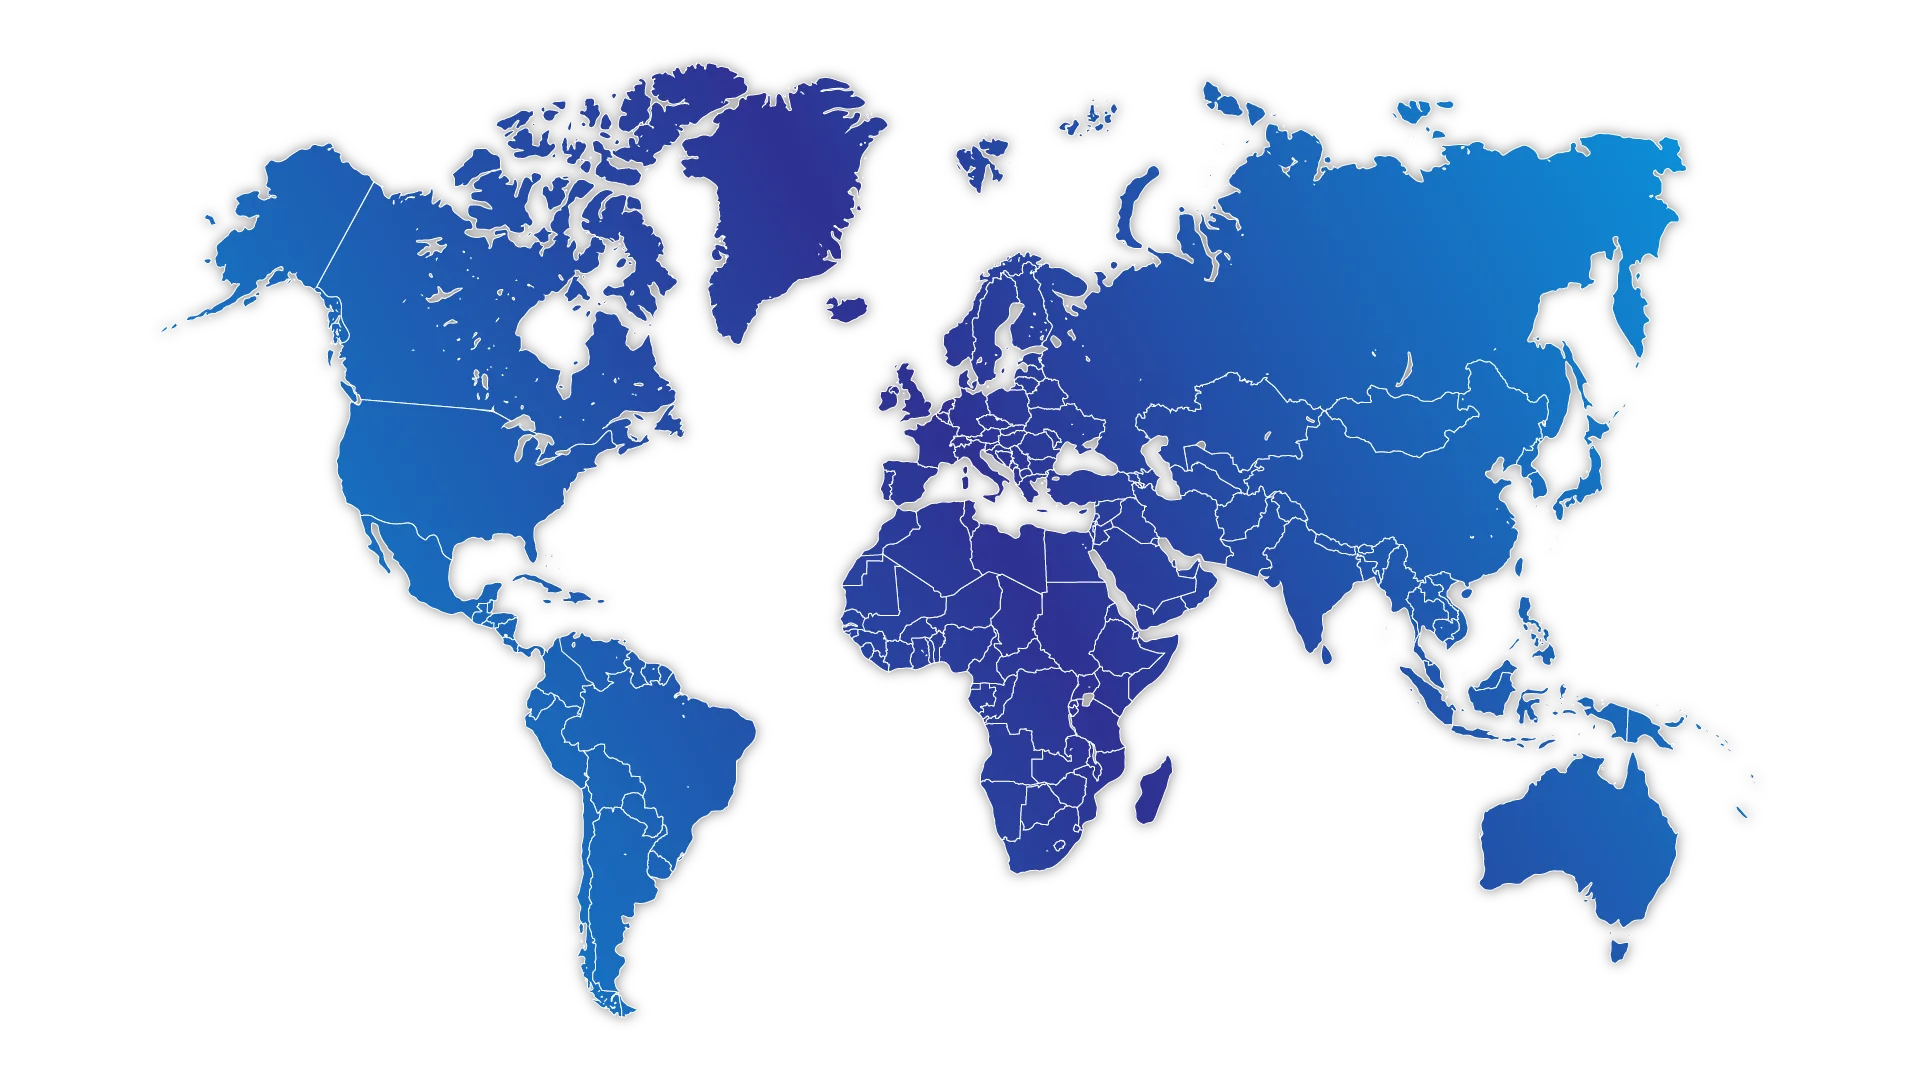
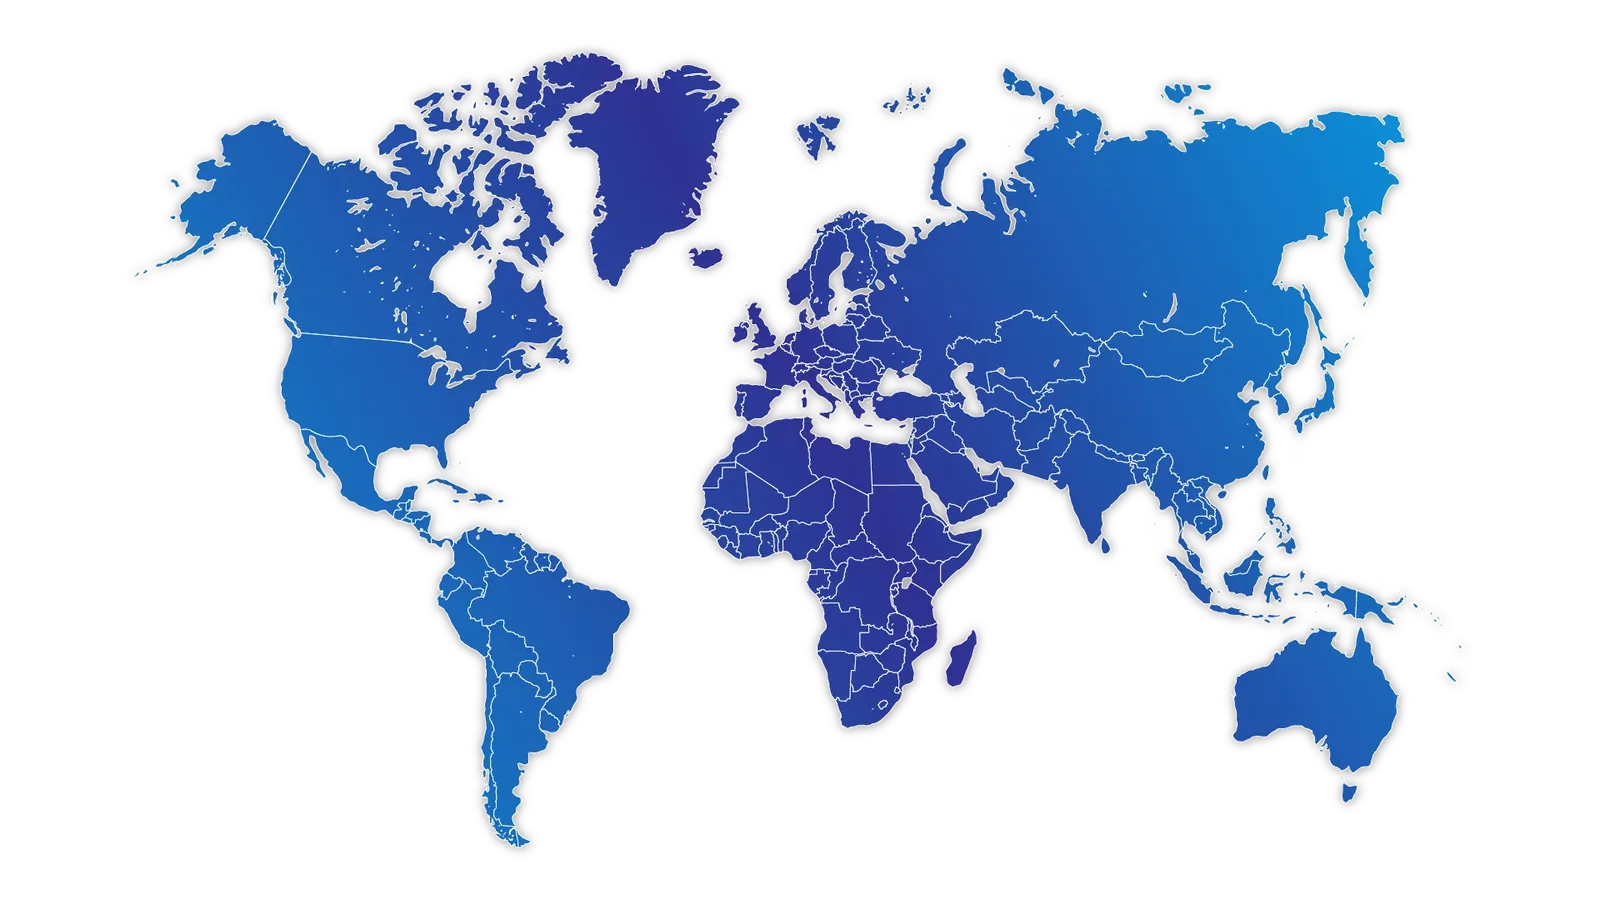
Imagenes al tamano al que se ven de verdad
Las fotos de proyecto se servian a 2209 px de ancho para mostrarse en tarjetas
de unos 400 px. Redimensionadas a 1000 px, que sigue siendo el doble de lo que
hace falta en pantallas de alta densidad.

  Thaleias   2209x1234 -> 1000x559   568 -> 140 KB
  Dallas     1912x1007 -> 1000x527   221 ->  82 KB
  mapa       1920x1080 -> 1600x900   252 -> 234 KB

Los atributos width y height se han actualizado en las seis paginas afectadas:
si no, el navegador reservaria un hueco con la proporcion equivocada y volveria
el salto de maqueta que acabamos de quitar.

assets/img queda en 1,1 MB. Empezamos en 15.

diff --git a/index.html b/index.html
@@ -333,7 +333,7 @@
         </div>
         <div class="partido__visual revelar">
           <div class="visual-fases">
-            <img width="1994" height="1761" src="assets/img/03_AsBuilt_Smart-01.webp" alt="Modelo BIM inteligente de un edificio con sus datos asociados" loading="lazy">
+            <img width="1600" height="1413" src="assets/img/03_AsBuilt_Smart-01.webp" alt="Modelo BIM inteligente de un edificio con sus datos asociados" loading="lazy">
             <span class="chip-dato" style="top:4%;left:-4%;"><span class="punto"></span>Modelo BIM · LOD 350</span>
             <span class="chip-dato" style="top:44%;right:-6%;animation-delay:-2.2s;"><span class="punto"></span>0 interferencias detectadas</span>
             <span class="chip-dato" style="bottom:6%;left:4%;animation-delay:-4.4s;"><span class="punto"></span>105+ proyectos en 16 países</span>
@@ -366,7 +366,7 @@
             <h3>Cada muro, cada conducto, cada viga: con sus datos</h3>
             <p>Convertimos la captura en modelos BIM inteligentes. Geometría con información viva, lista para construir.</p>
           </div>
-          <div class="capitulo__visual"><img width="1920" height="1080" src="assets/img/Mauritius_01.webp" alt="Modelo BIM isométrico de un edificio" loading="lazy" style="border-radius:8px;"></div>
+          <div class="capitulo__visual"><img width="1000" height="562" src="assets/img/Mauritius_01.webp" alt="Modelo BIM isométrico de un edificio" loading="lazy" style="border-radius:8px;"></div>
         </article>
         <article class="capitulo">
           <div>
@@ -374,7 +374,7 @@
             <h3>Los errores se corrigen en pantalla, no en el edificio</h3>
             <p>Coordinación, clash detection y control 4D/5D: tiempos y costes ligados al modelo, también en obra.</p>
           </div>
-          <div class="capitulo__visual"><img width="1912" height="1007" src="assets/img/Dallas_02.webp" alt="Render de un edificio residencial en construcción" loading="lazy" style="border-radius:8px;"></div>
+          <div class="capitulo__visual"><img width="1000" height="527" src="assets/img/Dallas_02.webp" alt="Render de un edificio residencial en construcción" loading="lazy" style="border-radius:8px;"></div>
         </article>
         <article class="capitulo">
           <div>
@@ -425,7 +425,7 @@
         <p class="subtitulo-seccion">Trabajamos en remoto y de forma híbrida con estudios, promotoras y constructoras de todo el mundo. Pulsa en cada punto para ver los proyectos.</p>
       </div>
       <div class="mapa-lienzo revelar" id="mapa-lienzo">
-        <img width="1920" height="1080" src="assets/img/mapa-01.webp" alt="Mapa mundial con los países donde Infinity Dimensions ha desarrollado proyectos" loading="lazy">
+        <img width="1600" height="900" src="assets/img/mapa-01.webp" alt="Mapa mundial con los países donde Infinity Dimensions ha desarrollado proyectos" loading="lazy">
         <div class="mapa-popover" id="mapa-popover" role="status" aria-live="polite">
           <h3 id="mapa-titulo"></h3>
           <p class="mapa-popover__num" id="mapa-num"></p>
@@ -447,7 +447,7 @@
       </div>
       <div class="rejilla rejilla--4">
         <div class="proyecto revelar">
-          <img width="2209" height="1234" src="assets/img/Thaleias_01.webp" alt="Render del edificio residencial en Atenas, Grecia" loading="lazy">
+          <img width="1000" height="559" src="assets/img/Thaleias_01.webp" alt="Render del edificio residencial en Atenas, Grecia" loading="lazy">
           <span class="proyecto__etiqueta">Residencial</span>
           <div class="proyecto__info">
             <h3>Residencial Atenas</h3>
@@ -455,7 +455,7 @@
           </div>
         </div>
         <div class="proyecto revelar">
-          <img width="1912" height="1007" src="assets/img/Dallas_02.webp" alt="Render del edificio residencial en Dallas, Estados Unidos" loading="lazy">
+          <img width="1000" height="527" src="assets/img/Dallas_02.webp" alt="Render del edificio residencial en Dallas, Estados Unidos" loading="lazy">
           <span class="proyecto__etiqueta">Residencial</span>
           <div class="proyecto__info">
             <h3>Residencial Dallas</h3>
@@ -463,7 +463,7 @@
           </div>
         </div>
         <div class="proyecto revelar">
-          <img width="1920" height="1080" src="assets/img/Mauritius_01.webp" alt="Render del edificio de oficinas en Ebene, Islas Mauricio" loading="lazy">
+          <img width="1000" height="562" src="assets/img/Mauritius_01.webp" alt="Render del edificio de oficinas en Ebene, Islas Mauricio" loading="lazy">
           <span class="proyecto__etiqueta">Oficinas</span>
           <div class="proyecto__info">
             <h3>Oficinas Ebene</h3>
@@ -471,7 +471,7 @@
           </div>
         </div>
         <div class="proyecto revelar">
-          <img width="1920" height="1080" src="assets/img/Enscape_2023-03-14-23-00-02.webp" alt="Render del edificio residencial en Madrid, España" loading="lazy">
+          <img width="1000" height="562" src="assets/img/Enscape_2023-03-14-23-00-02.webp" alt="Render del edificio residencial en Madrid, España" loading="lazy">
           <span class="proyecto__etiqueta">Residencial</span>
           <div class="proyecto__info">
             <h3>Residencial Madrid</h3>

diff --git a/en/index.html b/en/index.html
@@ -182,7 +182,7 @@
         </div>
         <div class="partido__visual revelar">
           <div class="visual-fases">
-            <img width="1994" height="1761" src="../assets/img/03_AsBuilt_Smart-01.webp" alt="Smart BIM model of a building with its associated data" loading="lazy">
+            <img width="1600" height="1413" src="../assets/img/03_AsBuilt_Smart-01.webp" alt="Smart BIM model of a building with its associated data" loading="lazy">
             <span class="chip-dato" style="top:4%;left:-4%;"><span class="punto"></span>BIM model · LOD 350</span>
             <span class="chip-dato" style="top:44%;right:-6%;animation-delay:-2.2s;"><span class="punto"></span>0 clashes detected</span>
             <span class="chip-dato" style="bottom:6%;left:4%;animation-delay:-4.4s;"><span class="punto"></span>105+ projects in 16 countries</span>
@@ -215,7 +215,7 @@
             <h3>Every wall, every duct, every beam: with its data</h3>
             <p>We turn the capture into intelligent BIM models. Geometry with living information, ready to build.</p>
           </div>
-          <div class="capitulo__visual"><img width="1920" height="1080" src="../assets/img/Mauritius_01.webp" alt="Isometric BIM model of a building" loading="lazy" style="border-radius:8px;"></div>
+          <div class="capitulo__visual"><img width="1000" height="562" src="../assets/img/Mauritius_01.webp" alt="Isometric BIM model of a building" loading="lazy" style="border-radius:8px;"></div>
         </article>
         <article class="capitulo">
           <div>
@@ -223,7 +223,7 @@
             <h3>Errors get fixed on screen, not in the building</h3>
             <p>Coordination, clash detection and 4D/5D control: time and cost tied to the model, on site too.</p>
           </div>
-          <div class="capitulo__visual"><img width="1912" height="1007" src="../assets/img/Dallas_02.webp" alt="Render of a residential building under construction" loading="lazy" style="border-radius:8px;"></div>
+          <div class="capitulo__visual"><img width="1000" height="527" src="../assets/img/Dallas_02.webp" alt="Render of a residential building under construction" loading="lazy" style="border-radius:8px;"></div>
         </article>
         <article class="capitulo">
           <div>
@@ -274,7 +274,7 @@
         <p class="subtitulo-seccion">We work remotely and in hybrid mode with studios, developers and construction companies worldwide. Click each point to see the projects.</p>
       </div>
       <div class="mapa-lienzo revelar" id="mapa-lienzo">
-        <img width="1920" height="1080" src="../assets/img/mapa-01.webp" alt="World map with the countries where Infinity Dimensions has developed projects" loading="lazy">
+        <img width="1600" height="900" src="../assets/img/mapa-01.webp" alt="World map with the countries where Infinity Dimensions has developed projects" loading="lazy">
         <div class="mapa-popover" id="mapa-popover" role="status" aria-live="polite">
           <h3 id="mapa-titulo"></h3>
           <p class="mapa-popover__num" id="mapa-num"></p>
@@ -296,7 +296,7 @@
       </div>
       <div class="rejilla rejilla--4">
         <div class="proyecto revelar">
-          <img width="2209" height="1234" src="../assets/img/Thaleias_01.webp" alt="Render of the residential building in Athens, Greece" loading="lazy">
+          <img width="1000" height="559" src="../assets/img/Thaleias_01.webp" alt="Render of the residential building in Athens, Greece" loading="lazy">
           <span class="proyecto__etiqueta">Residential</span>
           <div class="proyecto__info">
             <h3>Athens Residential</h3>
@@ -304,7 +304,7 @@
           </div>
         </div>
         <div class="proyecto revelar">
-          <img width="1912" height="1007" src="../assets/img/Dallas_02.webp" alt="Render of the residential building in Dallas, United States" loading="lazy">
+          <img width="1000" height="527" src="../assets/img/Dallas_02.webp" alt="Render of the residential building in Dallas, United States" loading="lazy">
           <span class="proyecto__etiqueta">Residential</span>
           <div class="proyecto__info">
             <h3>Dallas Residential</h3>
@@ -312,7 +312,7 @@
           </div>
         </div>
         <div class="proyecto revelar">
-          <img width="1920" height="1080" src="../assets/img/Mauritius_01.webp" alt="Render of the office building in Ebene, Mauritius" loading="lazy">
+          <img width="1000" height="562" src="../assets/img/Mauritius_01.webp" alt="Render of the office building in Ebene, Mauritius" loading="lazy">
           <span class="proyecto__etiqueta">Offices</span>
           <div class="proyecto__info">
             <h3>Ebene Offices</h3>
@@ -320,7 +320,7 @@
           </div>
         </div>
         <div class="proyecto revelar">
-          <img width="1920" height="1080" src="../assets/img/Enscape_2023-03-14-23-00-02.webp" alt="Render of the residential building in Madrid, Spain" loading="lazy">
+          <img width="1000" height="562" src="../assets/img/Enscape_2023-03-14-23-00-02.webp" alt="Render of the residential building in Madrid, Spain" loading="lazy">
           <span class="proyecto__etiqueta">Residential</span>
           <div class="proyecto__info">
             <h3>Madrid Residential</h3>

diff --git a/en/projects.html b/en/projects.html
@@ -117,7 +117,7 @@
       </div>
       <div class="rejilla rejilla--2">
         <div class="proyecto revelar" data-categoria="residencial">
-          <img width="2209" height="1234" src="../assets/img/Thaleias_01.webp" alt="Render of the residential building in Athens, Greece" loading="lazy">
+          <img width="1000" height="559" src="../assets/img/Thaleias_01.webp" alt="Render of the residential building in Athens, Greece" loading="lazy">
           <span class="proyecto__etiqueta">Residential</span>
           <div class="proyecto__info">
             <h3>Athens Residential</h3>
@@ -125,7 +125,7 @@
           </div>
         </div>
         <div class="proyecto revelar" data-categoria="residencial">
-          <img width="1912" height="1007" src="../assets/img/Dallas_02.webp" alt="Render of the residential building in Dallas, United States" loading="lazy">
+          <img width="1000" height="527" src="../assets/img/Dallas_02.webp" alt="Render of the residential building in Dallas, United States" loading="lazy">
           <span class="proyecto__etiqueta">Residential</span>
           <div class="proyecto__info">
             <h3>Dallas Residential Building</h3>
@@ -133,7 +133,7 @@
           </div>
         </div>
         <div class="proyecto revelar" data-categoria="oficinas">
-          <img width="1920" height="1080" src="../assets/img/Mauritius_01.webp" alt="Render of the office building in Ebene, Mauritius" loading="lazy">
+          <img width="1000" height="562" src="../assets/img/Mauritius_01.webp" alt="Render of the office building in Ebene, Mauritius" loading="lazy">
           <span class="proyecto__etiqueta">Offices</span>
           <div class="proyecto__info">
             <h3>Ebene Office Building</h3>
@@ -141,7 +141,7 @@
           </div>
         </div>
         <div class="proyecto revelar" data-categoria="residencial">
-          <img width="1920" height="1080" src="../assets/img/Enscape_2023-03-14-23-00-02.webp" alt="Render of the residential building in Madrid, Spain" loading="lazy">
+          <img width="1000" height="562" src="../assets/img/Enscape_2023-03-14-23-00-02.webp" alt="Render of the residential building in Madrid, Spain" loading="lazy">
           <span class="proyecto__etiqueta">Residential</span>
           <div class="proyecto__info">
             <h3>Madrid Residential Building</h3>

diff --git a/proyectos.html b/proyectos.html
@@ -137,7 +137,7 @@
       </div>
       <div class="rejilla rejilla--2">
         <div class="proyecto revelar" data-categoria="residencial">
-          <img width="2209" height="1234" src="assets/img/Thaleias_01.webp" alt="Render del edificio residencial en Atenas, Grecia" loading="lazy">
+          <img width="1000" height="559" src="assets/img/Thaleias_01.webp" alt="Render del edificio residencial en Atenas, Grecia" loading="lazy">
           <span class="proyecto__etiqueta">Residencial</span>
           <div class="proyecto__info">
             <h3>Residencial Atenas</h3>
@@ -145,7 +145,7 @@
           </div>
         </div>
         <div class="proyecto revelar" data-categoria="residencial">
-          <img width="1912" height="1007" src="assets/img/Dallas_02.webp" alt="Render del edificio residencial en Dallas, Estados Unidos" loading="lazy">
+          <img width="1000" height="527" src="assets/img/Dallas_02.webp" alt="Render del edificio residencial en Dallas, Estados Unidos" loading="lazy">
           <span class="proyecto__etiqueta">Residencial</span>
           <div class="proyecto__info">
             <h3>Edificio Residencial Dallas</h3>
@@ -153,7 +153,7 @@
           </div>
         </div>
         <div class="proyecto revelar" data-categoria="oficinas">
-          <img width="1920" height="1080" src="assets/img/Mauritius_01.webp" alt="Render del edificio de oficinas en Ebene, Islas Mauricio" loading="lazy">
+          <img width="1000" height="562" src="assets/img/Mauritius_01.webp" alt="Render del edificio de oficinas en Ebene, Islas Mauricio" loading="lazy">
           <span class="proyecto__etiqueta">Oficinas</span>
           <div class="proyecto__info">
             <h3>Edificio de Oficinas Ebene</h3>
@@ -161,7 +161,7 @@
           </div>
         </div>
         <div class="proyecto revelar" data-categoria="residencial">
-          <img width="1920" height="1080" src="assets/img/Enscape_2023-03-14-23-00-02.webp" alt="Render del edificio residencial en Madrid, España" loading="lazy">
+          <img width="1000" height="562" src="assets/img/Enscape_2023-03-14-23-00-02.webp" alt="Render del edificio residencial en Madrid, España" loading="lazy">
           <span class="proyecto__etiqueta">Residencial</span>
           <div class="proyecto__info">
             <h3>Edificio Residencial Madrid</h3>

diff --git a/servicios.html b/servicios.html
@@ -109,7 +109,7 @@
         </div>
         <div class="partido__visual revelar">
           <div class="visual-fases">
-            <img width="1920" height="1080" src="assets/img/Mauritius_01.webp" alt="Modelo BIM isométrico de un edificio de oficinas con sus fases de proyecto anotadas" loading="lazy">
+            <img width="1000" height="562" src="assets/img/Mauritius_01.webp" alt="Modelo BIM isométrico de un edificio de oficinas con sus fases de proyecto anotadas" loading="lazy">
             <span class="chip-dato" style="top:14%;left:2%;"><span class="punto"></span>Licitación y estudios</span>
             <span class="chip-dato" style="top:46%;right:0;animation-delay:-2.2s;"><span class="punto"></span>Ejecución y coordinación</span>
             <span class="chip-dato" style="bottom:10%;left:10%;animation-delay:-4.4s;"><span class="punto"></span>Entrega y as-built</span>

diff --git a/en/services.html b/en/services.html
@@ -89,7 +89,7 @@
         </div>
         <div class="partido__visual revelar">
           <div class="visual-fases">
-            <img width="1920" height="1080" src="../assets/img/Mauritius_01.webp" alt="Isometric BIM model of an office building with its project phases annotated" loading="lazy">
+            <img width="1000" height="562" src="../assets/img/Mauritius_01.webp" alt="Isometric BIM model of an office building with its project phases annotated" loading="lazy">
             <span class="chip-dato" style="top:14%;left:2%;"><span class="punto"></span>Tendering & studies</span>
             <span class="chip-dato" style="top:46%;right:0;animation-delay:-2.2s;"><span class="punto"></span>Delivery & coordination</span>
             <span class="chip-dato" style="bottom:10%;left:10%;animation-delay:-4.4s;"><span class="punto"></span>Handover & as-built</span>
